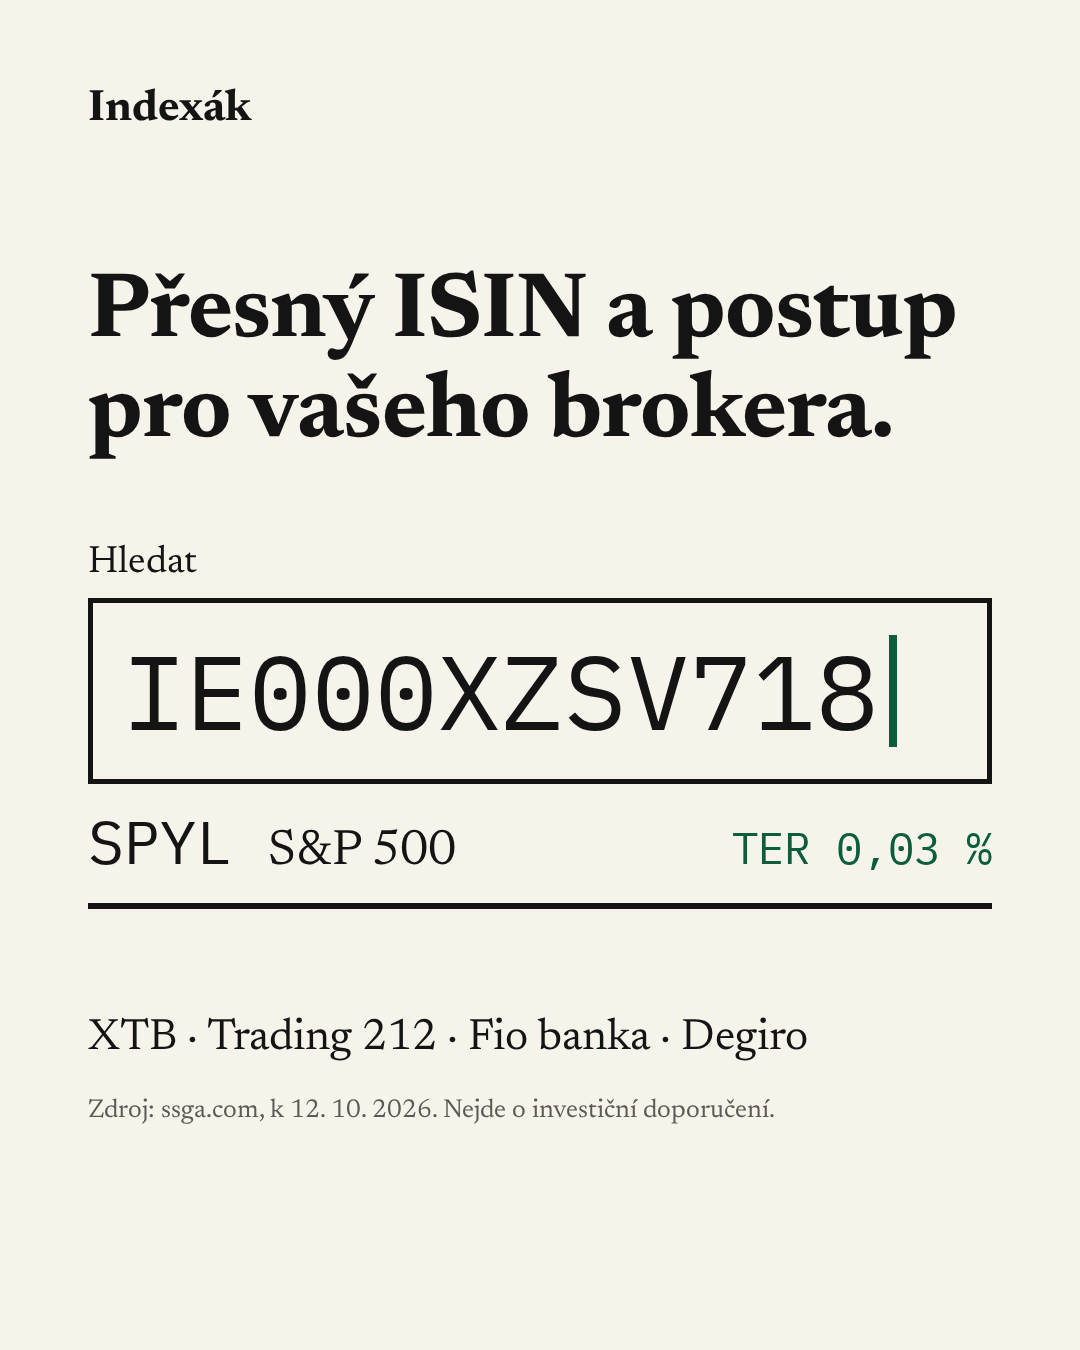
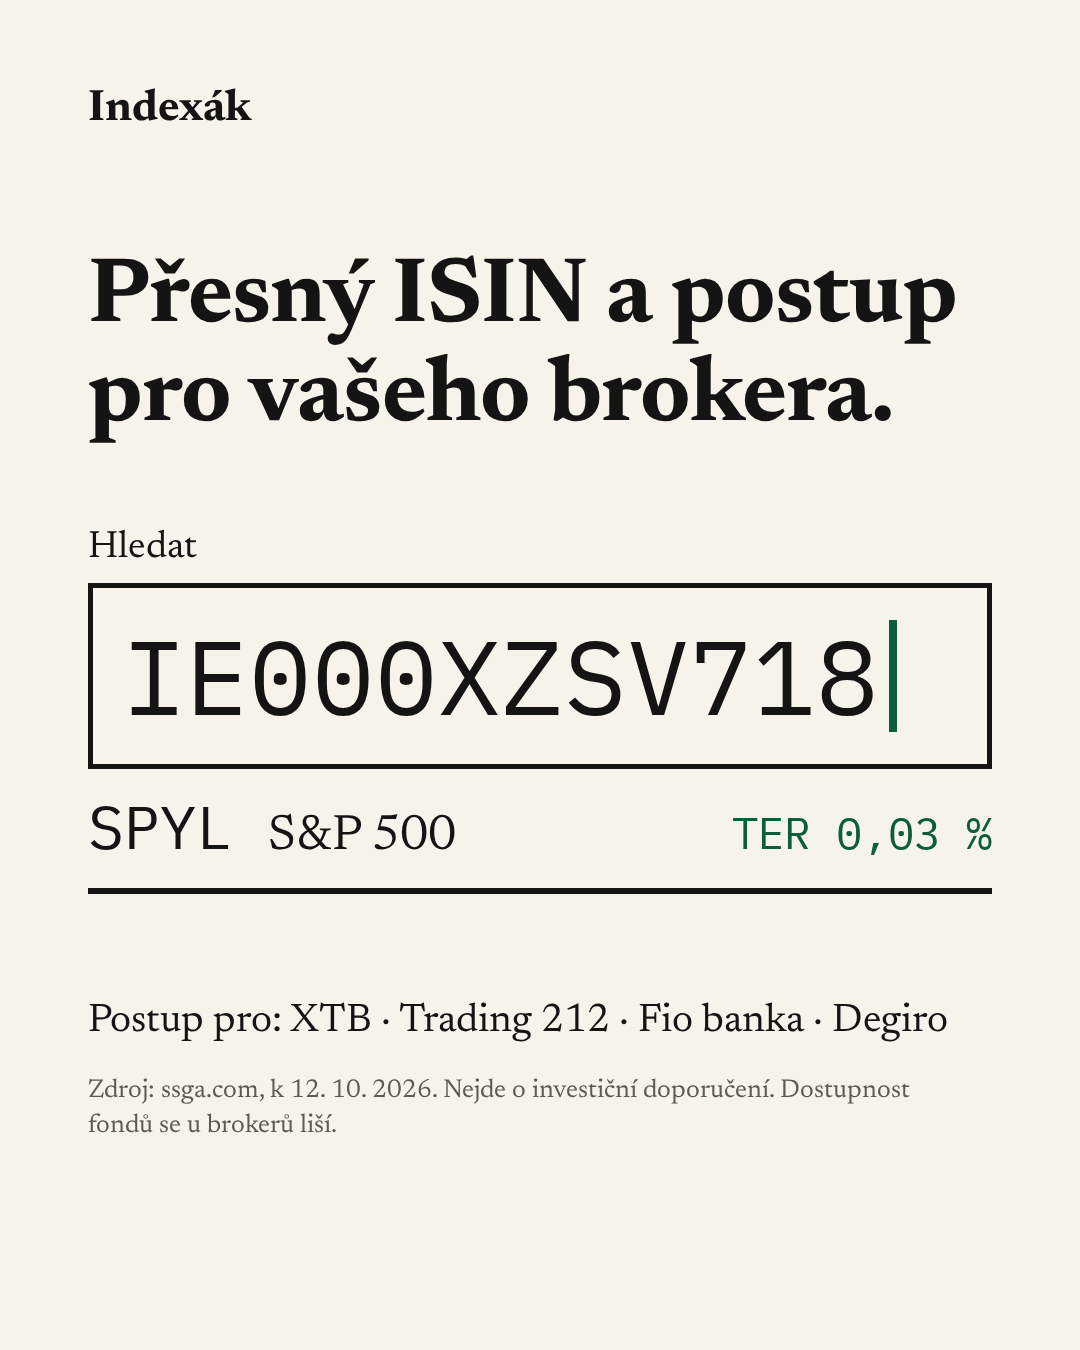
fix: qualify broker availability on ad B; move ad rendering tests to build suite
Claude-Session: https://claude.ai/code/session_019X3M7sBtGwTsWnKY638uvU

Changed region(s): [[0.0611, 0.3733, 0.9167, 0.6844], [0.0611, 0.1867, 0.8861, 0.3422], [0.0611, 0.7467, 0.8861, 0.84]]

diff --git a/tests/unit/ads.test.ts b/tests/unit/ads.test.ts
@@ -1,46 +1,48 @@
 // @vitest-environment node
-import { execFileSync } from 'node:child_process';
 import { readFileSync } from 'node:fs';
-import { beforeAll, describe, expect, it } from 'vitest';
-import { imageSizeFromFile } from 'image-size/fromFile';
-import { getFund } from '../../src/lib/pairs';
+import { describe, expect, it } from 'vitest';
+import { getBrokers, getFund, twinsSortedByTer } from '../../src/lib/pairs';
 import { heroVariantFromUtm } from '../../src/lib/copy';
+import { fillTemplate } from '../../scripts/render-ads';
 
-const SIZES = { '4x5': [1080, 1350], '9x16': [1080, 1920] } as const;
+// Pure template/copy checks; rendering to PNG is tested in tests/build/ads-render.test.ts.
+const tpl = (v: 'a' | 'b') => readFileSync(`ads/templates/${v}.html`, 'utf8');
 
-describe('ads', () => {
-  beforeAll(() => {
-    execFileSync('npm', ['run', 'ads'], { stdio: 'inherit' });
-  }, 180_000);
-
-  for (const v of ['a', 'b'] as const)
-    for (const [ratio, [w, h]] of Object.entries(SIZES))
-      it(`ads/${v}-${ratio}.png is ${w}x${h}`, async () => {
-        const d = await imageSizeFromFile(`ads/${v}-${ratio}.png`);
-        expect([d.width, d.height]).toEqual([w, h]);
-      });
-
-  it('public/og.png is 1200x630 (Base.astro default og:image)', async () => {
-    const d = await imageSizeFromFile('public/og.png');
-    expect([d.width, d.height]).toEqual([1200, 630]);
-  });
-
-  it('template B takes SPYL ISIN and TER from data, not hardcoded', async () => {
-    const raw = readFileSync('ads/templates/b.html', 'utf8');
+describe('ads templates', () => {
+  it('template B takes SPYL ISIN and TER from data, not hardcoded', () => {
+    const raw = tpl('b');
     const spyl = getFund('SPYL');
     expect(raw).not.toContain(spyl.isin.value);
     expect(raw).toContain('{{SPYL.isin}}');
     expect(raw).not.toMatch(/\d,\d{2}\s?%/); // žádné TER natvrdo
-    const { fillTemplate } = await import('../../scripts/render-ads');
     const filled = fillTemplate(raw);
     expect(filled).toContain(spyl.isin.value);
     expect(filled).not.toContain('{{');
   });
 
+  it('template B does not imply SPYL is available at every broker', () => {
+    const filled = fillTemplate(tpl('b'));
+    expect(filled).toContain(`Postup pro: ${getBrokers().map((b) => b.name).join(' · ')}`);
+    expect(filled).toContain('Dostupnost fondů se u brokerů liší.');
+  });
+
   it('template A has no hardcoded TER or ISIN', () => {
-    const raw = readFileSync('ads/templates/a.html', 'utf8');
+    const raw = tpl('a');
     expect(raw).not.toMatch(/\d,\d{2}\s?%/);
     expect(raw).not.toMatch(/\b[A-Z]{2}[A-Z0-9]{9}\d\b/);
+  });
+
+  it('filled template A lists sp500 twins ordered by TER (SPYL, CSPX, VUAA)', () => {
+    const filled = fillTemplate(tpl('a'));
+    expect(filled).not.toContain('{{');
+    const tickers = [...filled.matchAll(/<li><span class="ticker">([A-Z0-9]+)<\/span>/g)].map((m) => m[1]);
+    expect(tickers).toEqual(['SPYL', 'CSPX', 'VUAA']);
+    expect(tickers).toEqual(twinsSortedByTer('sp500').map((f) => f.id));
+  });
+
+  it('fillTemplate rejects unknown placeholders and funds', () => {
+    expect(() => fillTemplate('{{nope}}')).toThrow(/Unknown placeholder/);
+    expect(() => fillTemplate('{{FOO.ter}}')).toThrow(/Unknown fund/);
   });
 
   it('copy.md has exact texts from spec §9 and UTM matching hero variant', () => {
@@ -53,7 +55,8 @@ describe('ads', () => {
       'S&P 500 u vašeho brokera: přesný ISIN a postup',
       'Získat návod',
     ]) expect(md).toContain(s);
-    for (const m of md.matchAll(/utm_content=([a-z0-9-]+)/g))
-      expect(heroVariantFromUtm(m[1])).toBe(m[1][0]);
+    const utms = [...md.matchAll(/utm_content=([a-z0-9-]+)/g)].map((m) => m[1]);
+    expect(utms).toHaveLength(4);
+    for (const u of utms) expect(heroVariantFromUtm(u)).toBe(u[0]);
   });
 });

diff --git a/tests/build/ads-render.test.ts b/tests/build/ads-render.test.ts
@@ -1,0 +1,25 @@
+// @vitest-environment node
+import { execFileSync } from 'node:child_process';
+import { beforeAll, describe, expect, it } from 'vitest';
+import { imageSizeFromFile } from 'image-size/fromFile';
+
+// Renders with Chromium and rewrites the committed PNGs: runs only via `npm run test:build`.
+const OUTPUTS = {
+  'ads/a-4x5.png': [1080, 1350],
+  'ads/a-9x16.png': [1080, 1920],
+  'ads/b-4x5.png': [1080, 1350],
+  'ads/b-9x16.png': [1080, 1920],
+  'public/og.png': [1200, 630], // Base.astro default og:image
+} as const;
+
+describe('render-ads', () => {
+  beforeAll(() => {
+    execFileSync('npm', ['run', 'ads'], { stdio: 'inherit' });
+  }, 180_000);
+
+  for (const [file, [w, h]] of Object.entries(OUTPUTS))
+    it(`${file} is ${w}x${h}`, async () => {
+      const d = await imageSizeFromFile(file);
+      expect([d.width, d.height]).toEqual([w, h]);
+    });
+});

diff --git a/ads/templates/b.html b/ads/templates/b.html
@@ -14,7 +14,7 @@
     <p class="hit"><span class="ticker">SPYL</span><span class="index">S&amp;P 500</span><span class="ter">TER {{SPYL.ter}}</span></p>
   </div>
   <div class="foot">
-    <p class="brokers">{{brokers}}</p>
-    <p class="source">Zdroj: {{SPYL.source}}, k&nbsp;{{asOf}}. Nejde o&nbsp;investiční doporučení.</p>
+    <p class="brokers">Postup pro: {{brokers}}</p>
+    <p class="source">Zdroj: {{SPYL.source}}, k&nbsp;{{asOf}}. Nejde o&nbsp;investiční doporučení. Dostupnost fondů se u brokerů liší.</p>
   </div>
 </main></body></html>

diff --git a/ads/templates/ads.css b/ads/templates/ads.css
@@ -69,5 +69,5 @@ html.size-og .foot .source { font-size: 19px; margin-top: 10px; max-width: none;
 .ad-b .hit { display: flex; align-items: baseline; gap: 36px; padding: 28px 0 26px; border-bottom: 6px solid var(--ink); font-size: 50px; line-height: 1; }
 .ad-b .hit .ticker { font-size: 60px; }
 .ad-b .hit .ter { margin-left: auto; font-size: 44px; color: var(--signal); }
-.ad-b .brokers { font-size: 44px; line-height: 1.2; }
+.ad-b .brokers { font-size: 40px; line-height: 1.2; }
 
